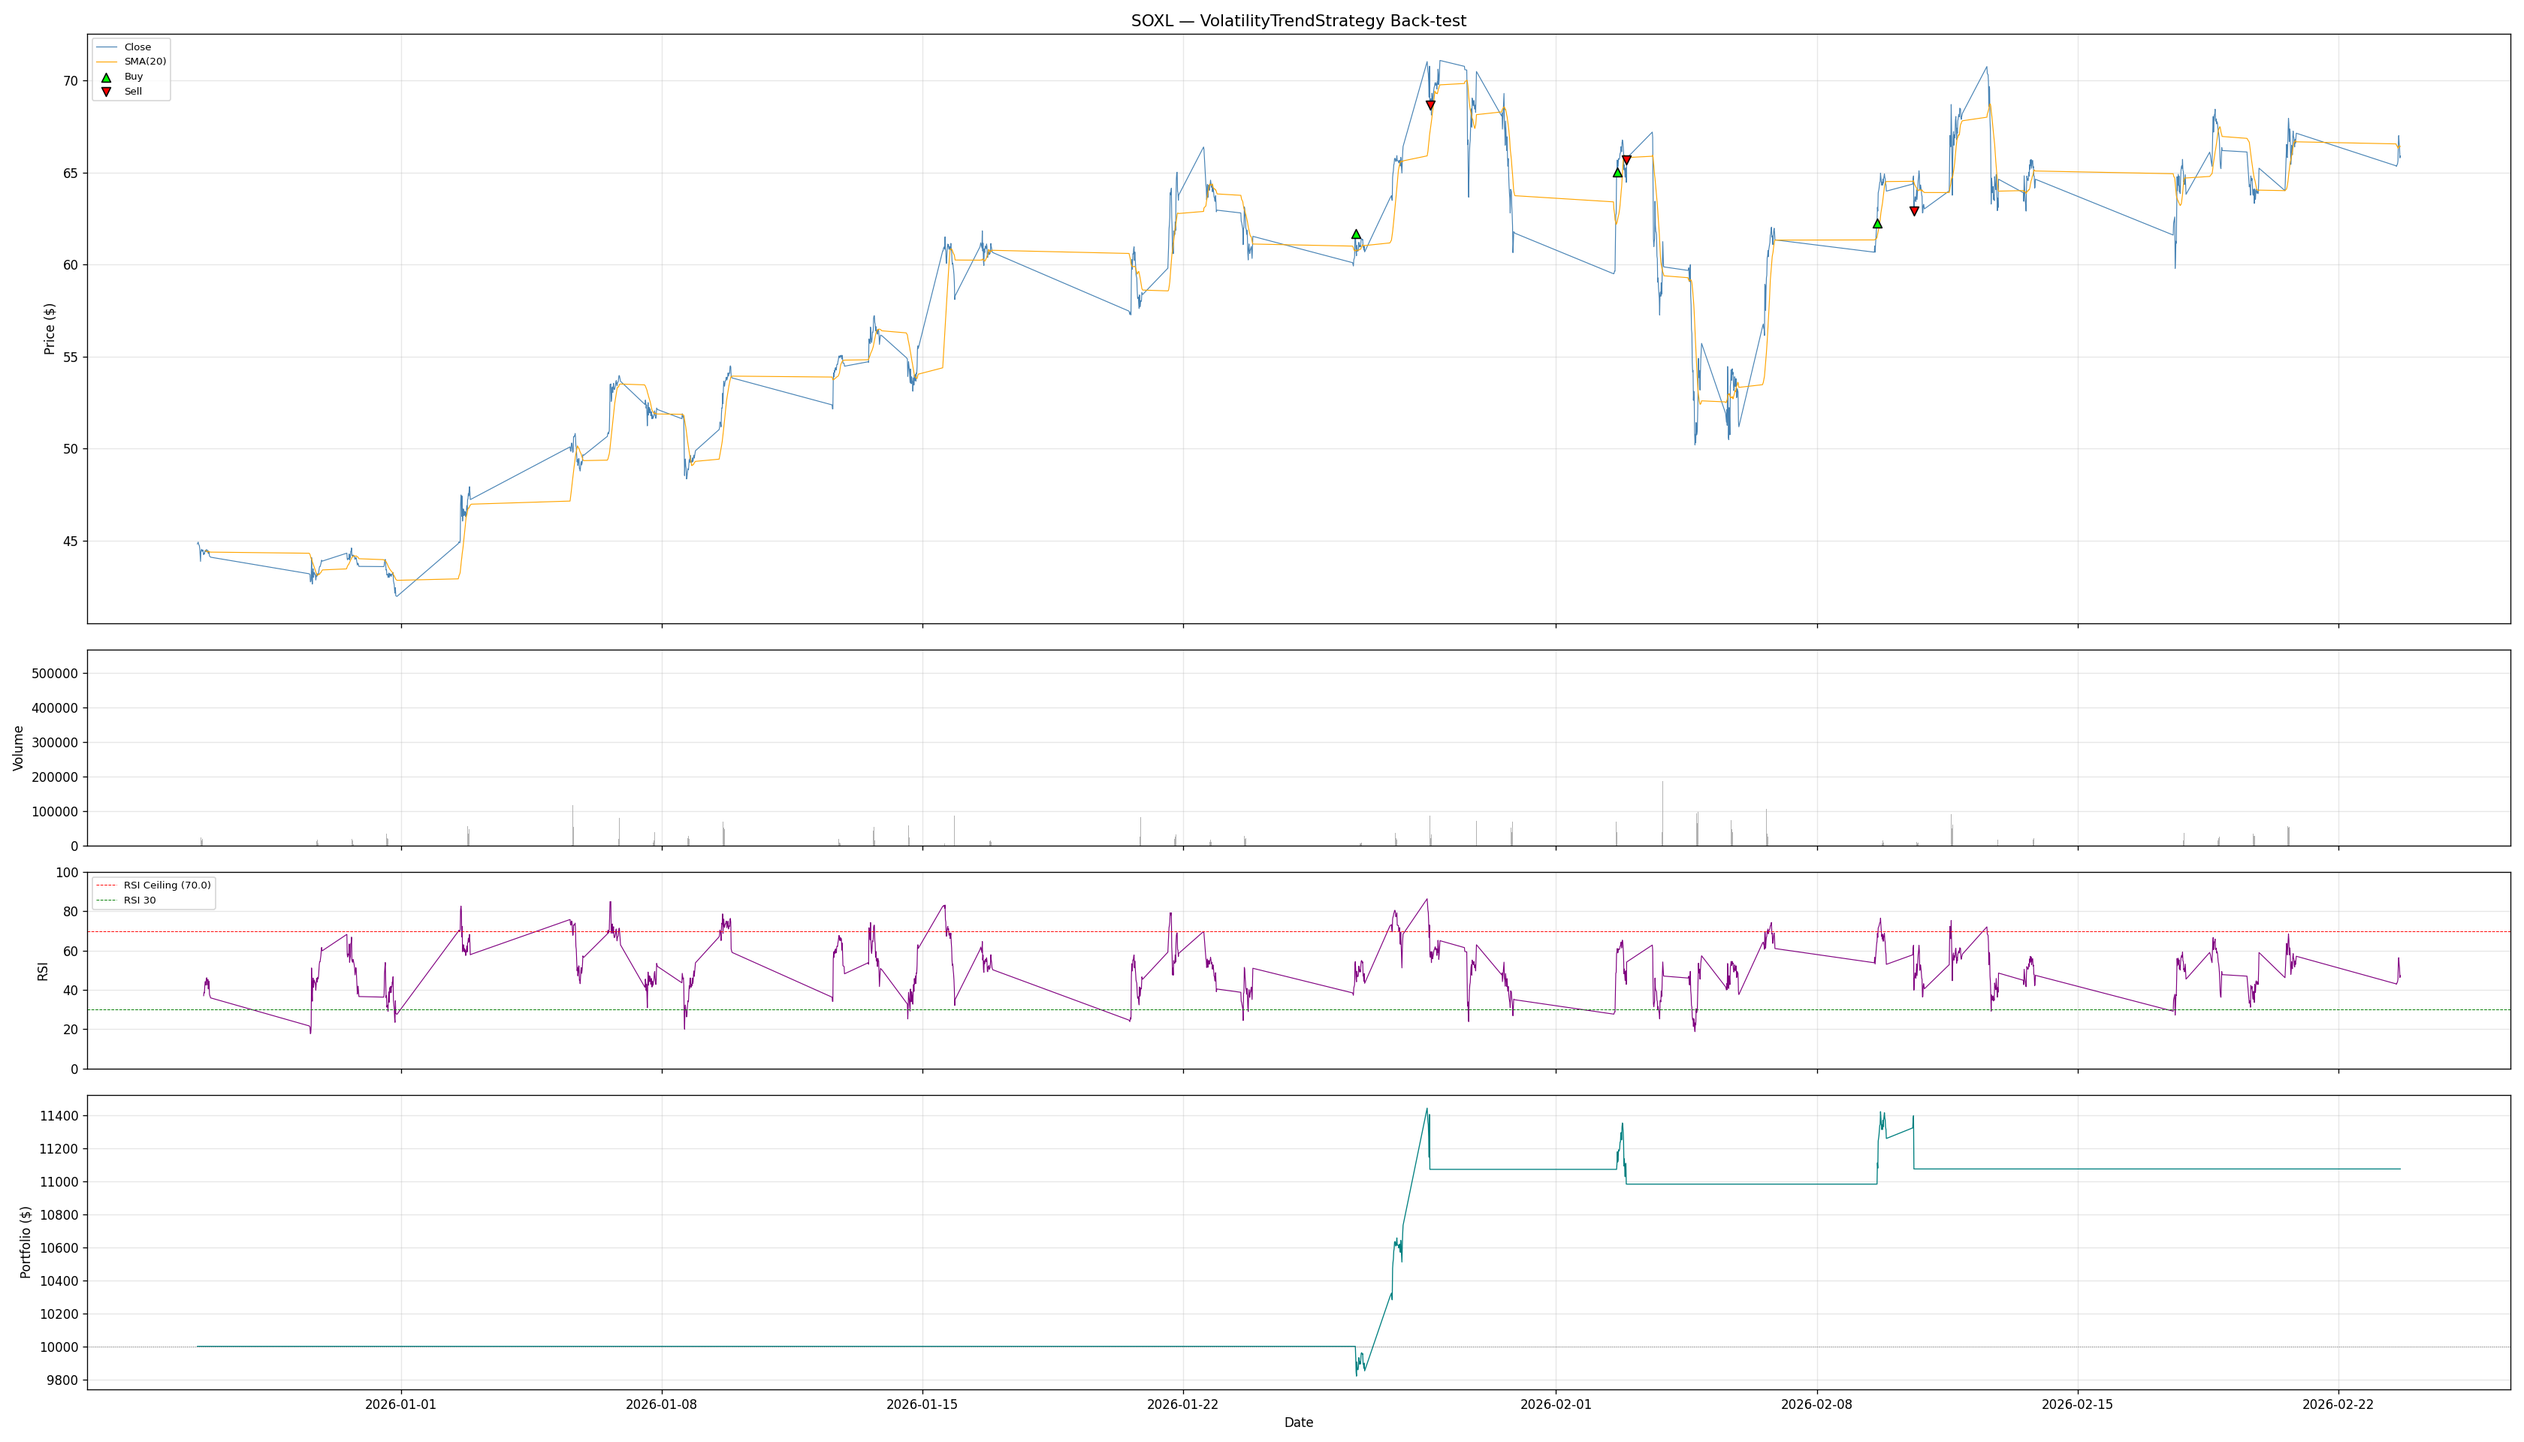
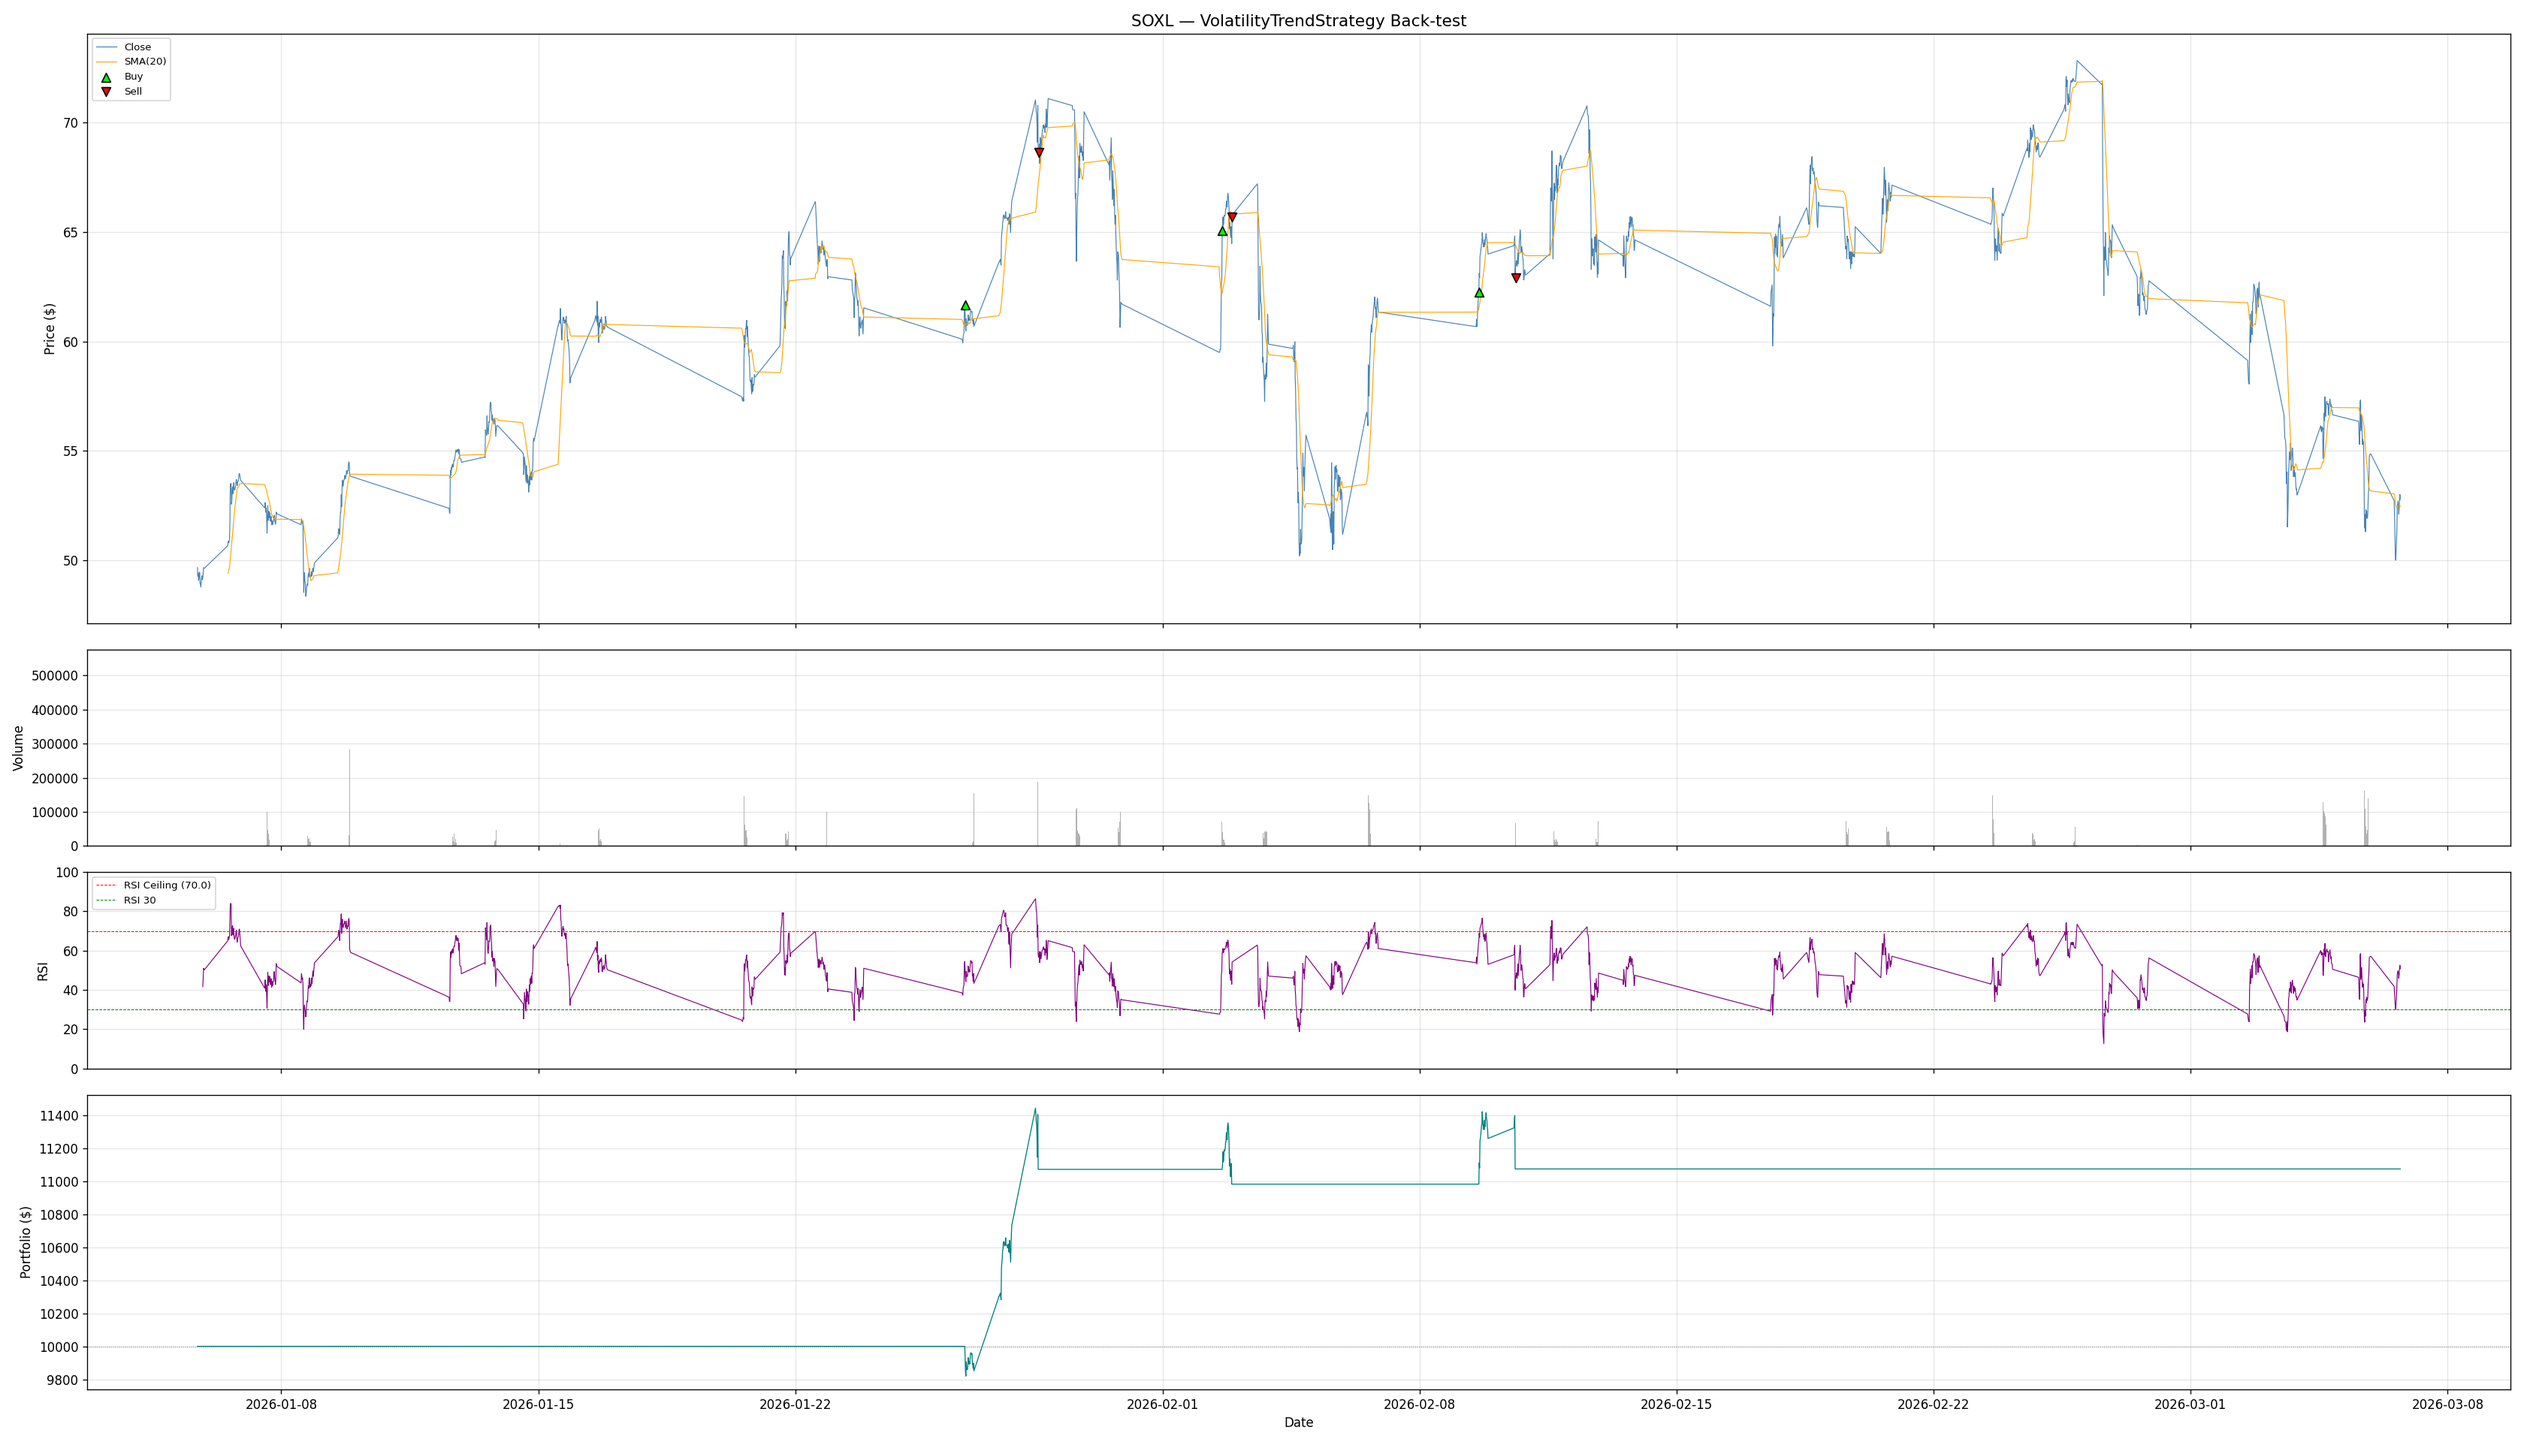
feat(exp-007): add trade logging and expand 15m backtest to 180d

diff --git a/quant_soxl_bot/src/strategies/volatility_trend.py b/quant_soxl_bot/src/strategies/volatility_trend.py
@@ -132,11 +132,14 @@ class VolatilityTrendStrategy(bt.Strategy):
         # Order / position tracking
         self.order: Optional[bt.Order] = None
         self.entry_price: float = 0.0
+        self.entry_size: float = 0.0
         self.entry_atr: float = 0.0           # ATR at the moment of entry (for stop)
         self.hard_stop_price: float = 0.0     # computed at entry, may be raised to BE
         self.highest_price: float = 0.0
         self.trailing_stop_level: float = 0.0
         self.breakeven_triggered: bool = False  # True once stop has been moved to BE
+        self.last_exit_price: Optional[float] = None
+        self.trade_log: list[dict] = []
 
         # Confirmation bar — delay entry by one bar to filter whipsaws
         self.waiting_confirmation: bool = False
@@ -184,6 +187,7 @@ class VolatilityTrendStrategy(bt.Strategy):
         if order.status == order.Completed:
             if order.isbuy():
                 self.entry_price = order.executed.price
+                self.entry_size = abs(order.executed.size)
                 self.entry_atr = self.atr[0]
                 atr_dist = self.p.stop_loss_atr_dist * self.entry_atr
                 pct_cap = self.entry_price * self.p.max_stop_loss_pct
@@ -204,6 +208,7 @@ class VolatilityTrendStrategy(bt.Strategy):
             elif order.issell():
                 # Reset cooldown counter — the wait starts NOW.
                 self.bars_since_exit = 0
+                self.last_exit_price = order.executed.price
                 self.log(
                     f"SELL EXECUTED | Price: {order.executed.price:.2f}, "
                     f"Size: {order.executed.size:.0f}, "
@@ -236,6 +241,30 @@ class VolatilityTrendStrategy(bt.Strategy):
         pnl = trade.pnlcomm
         self.daily_pnl += pnl
 
+        direction = "Long" if trade.long else "Short"
+        entry_price = float(trade.price)
+        close_price = (
+            float(self.last_exit_price)
+            if self.last_exit_price is not None
+            else float(trade.price)
+        )
+        # Backtrader marks closed trades with size=0; use cached entry size.
+        position_size = abs(self.entry_size) if self.entry_size else 0.0
+        notional = abs(entry_price * position_size)
+        return_pct = (pnl / notional) if notional else 0.0
+
+        self.trade_log.append(
+            {
+                "open_time": bt.num2date(trade.dtopen),
+                "close_time": bt.num2date(trade.dtclose),
+                "direction": direction,
+                "entry_price": round(entry_price, 4),
+                "exit_price": round(close_price, 4),
+                "pnl_net": round(float(pnl), 4),
+                "return_pct": round(return_pct * 100.0, 4),
+            }
+        )
+
         if pnl < 0:
             self.consec_losses += 1
             self.log(
@@ -245,6 +274,20 @@ class VolatilityTrendStrategy(bt.Strategy):
         else:
             self.consec_losses = 0
             self.log(f"TRADE CLOSED (WIN)  | PnL: {pnl:.2f}")
+
+    def stop(self) -> None:
+        """Print a trade report table at strategy end."""
+        if not self.trade_log:
+            return
+
+        import pandas as pd
+
+        df = pd.DataFrame(self.trade_log)
+        print("\n=== Trade Log Report ===")
+        try:
+            print(df.to_markdown(index=False))
+        except Exception:
+            print(df.to_string(index=False))
 
     # ------------------------------------------------------------------
     # Helpers — time filters

diff --git a/quant_soxl_bot/src/backtest/run_backtest.py b/quant_soxl_bot/src/backtest/run_backtest.py
@@ -13,6 +13,8 @@ Usage
 from __future__ import annotations
 
 import argparse
+import platform
+import subprocess
 import sys
 from pathlib import Path
 
@@ -182,7 +184,26 @@ def _parse_args() -> argparse.Namespace:
         metavar="PATH",
         help="Save chart to file instead of showing GUI (e.g. output/backtest.png).",
     )
+    parser.add_argument(
+        "--no-open-plot",
+        action="store_true",
+        help="Do not auto-open the saved chart file.",
+    )
     return parser.parse_args()
+
+
+def _open_plot_file(save_file: Path) -> None:
+    """Best-effort auto-open for saved chart file."""
+    try:
+        system = platform.system()
+        if system == "Darwin":
+            subprocess.run(["open", str(save_file)], check=False)
+        elif system == "Linux":
+            subprocess.run(["xdg-open", str(save_file)], check=False)
+        elif system == "Windows":
+            subprocess.run(["cmd", "/c", "start", "", str(save_file)], check=False)
+    except Exception as exc:
+        print(f"Warning: failed to open chart automatically: {exc}")
 
 
 def main() -> None:
@@ -194,7 +215,7 @@ def main() -> None:
 
     # 2. Data — fetch from Alpaca (cached to CSV after first download) ----
     print("Loading SOXL 15-min data via Alpaca …")
-    df = download_alpaca_data("SOXL", timeframe_minutes=15, days=60)
+    df = download_alpaca_data("SOXL", timeframe_minutes=15, days=180)
     print(f"  Rows loaded: {len(df)}  |  "
           f"Range: {df.index.min()} → {df.index.max()}")
 
@@ -238,6 +259,8 @@ def main() -> None:
         save_file.parent.mkdir(parents=True, exist_ok=True)
 
         _save_backtest_chart(strat, df, INITIAL_CASH, save_file)
+        if not args.no_open_plot:
+            _open_plot_file(save_file)
 
 
 if __name__ == "__main__":

diff --git a/quant_soxl_bot/src/utils/alpaca_loader.py b/quant_soxl_bot/src/utils/alpaca_loader.py
@@ -70,7 +70,7 @@ def download_alpaca_data(
     symbol: str = "SOXL",
     *,
     timeframe_minutes: int = 15,
-    days: int = 60,
+    days: int = 180,
     cache: bool = True,
 ) -> pd.DataFrame:
     """Download intraday bar data from Alpaca and return a Backtrader-ready DF.
@@ -82,7 +82,7 @@ def download_alpaca_data(
     timeframe_minutes : int
         Bar aggregation in minutes (default ``15``).
     days : int
-        How many calendar days of history to request (default ``60``).
+        How many calendar days of history to request (default ``180``).
     cache : bool
         If True, save to / read from ``data/raw/<SYMBOL>_Alpaca_<TF>m.csv``
         to avoid redundant API calls (e.g. ``SOXL_Alpaca_15m.csv``).
@@ -132,9 +132,16 @@ def download_alpaca_data(
     end_dt = datetime.utcnow()
     start_dt = end_dt - timedelta(days=days)
 
+    # Prefer TimeFrame.Minute * N per Exp-007. Fallback keeps compatibility
+    # with older alpaca-py versions that do not support TimeFrame multiplication.
+    try:
+        timeframe = TimeFrame.Minute * timeframe_minutes
+    except Exception:
+        timeframe = TimeFrame(amount=timeframe_minutes, unit=TimeFrameUnit.Minute)
+
     request = StockBarsRequest(
         symbol_or_symbols=symbol,
-        timeframe=TimeFrame(amount=timeframe_minutes, unit=TimeFrameUnit.Minute),
+        timeframe=timeframe,
         start=start_dt,
         end=end_dt,
         # 使用 IEX 数据源 — 免费账户可用，且与 STRATEGY_SPECS.md 一致。

diff --git a/quant_soxl_bot/docs/CHANGELOG.md b/quant_soxl_bot/docs/CHANGELOG.md
@@ -4,6 +4,55 @@
 
 ---
 
+## Experiment 007 — 180天样本扩展 + 交易明细报表
+
+| Field | Detail |
+|-------|--------|
+| **Date** | 2026-03-07 |
+| **Files** | `src/utils/alpaca_loader.py`, `src/strategies/volatility_trend.py`, `src/backtest/run_backtest.py` |
+| **Backtest Period** | 2025-09-08 → 2026-03-06 (Alpaca IEX 15m) |
+
+### Hypothesis
+
+Exp-006 已验证 15m 隔夜策略在趋势段有效，但回测透明度和样本长度不足。  
+引入逐笔交易报表并将样本扩展到 180 天，可提升策略可解释性与稳健性评估质量。
+
+### Changes
+
+1. **数据样本扩展到 180 天**
+   - `download_alpaca_data()` 默认 `days` 从 60 调整为 180。
+   - timeframe 优先采用 `TimeFrame.Minute * 15`，并保留旧版 SDK 兼容 fallback。
+   - 重新下载并覆盖 `data/raw/SOXL_Alpaca_15m.csv`。
+
+2. **交易日志系统（Trade Logging）**
+   - 策略初始化新增 `self.trade_log = []`。
+   - `notify_trade()` 在 `trade.isclosed` 时记录：
+     - 开仓/平仓时间、方向、开平仓价、净利润、收益率。
+   - `stop()` 在策略结束时输出交易表（优先 `to_markdown()`，fallback `to_string()`）。
+
+3. **单次回测脚本联动**
+   - `run_backtest.py` 改为读取 180 天 15m 数据。
+   - 保留终端交易表输出。
+   - 保存图像后默认尝试自动打开（支持 `--no-open-plot` 关闭）。
+
+### Results
+
+| Metric | Value |
+|--------|-------|
+| Data Bars | 4068 |
+| Trades | 10 |
+| Final Portfolio Value | **$12,895.86** |
+| Net PnL | **+$2,895.86** |
+| Return | **+28.96%** |
+| Max Single Loss | -$456.53 |
+
+**观察：**
+- 在更长样本下策略仍保持正收益，说明 Exp-006 方向具备可迁移性。
+- 交易日志已能逐笔审计开平仓与收益率，回测透明度显著提升。
+- 长样本中仍出现大额单笔回撤（如 -$456.53），下一步可评估仓位或止损上限约束。
+
+---
+
 ## Experiment 006 — 15m 周期 + 去除 EOD 强平 + Overnight 持仓
 
 | Field | Detail |
@@ -276,6 +325,7 @@ Experiment 004 的网格寻优（27 组合）发现：
 
 | Version | Net PnL | Trades | Max Loss | Key Improvement |
 |---------|---------|--------|----------|-----------------|
+| **007** | **+$2,896** | 10 | -$457 | 180天样本 + 逐笔交易日志，透明度与稳健性提升 |
 | **006** | **+$1,288** | N/A | N/A | 15m + Overnight 持仓，显著改善趋势收益 |
 | **001** | -$1,243 | 42 | -$341 | Baseline |
 | **002** | +$149 | 25 | -$341 | ADX + Cooldown → 扭亏为盈 |
